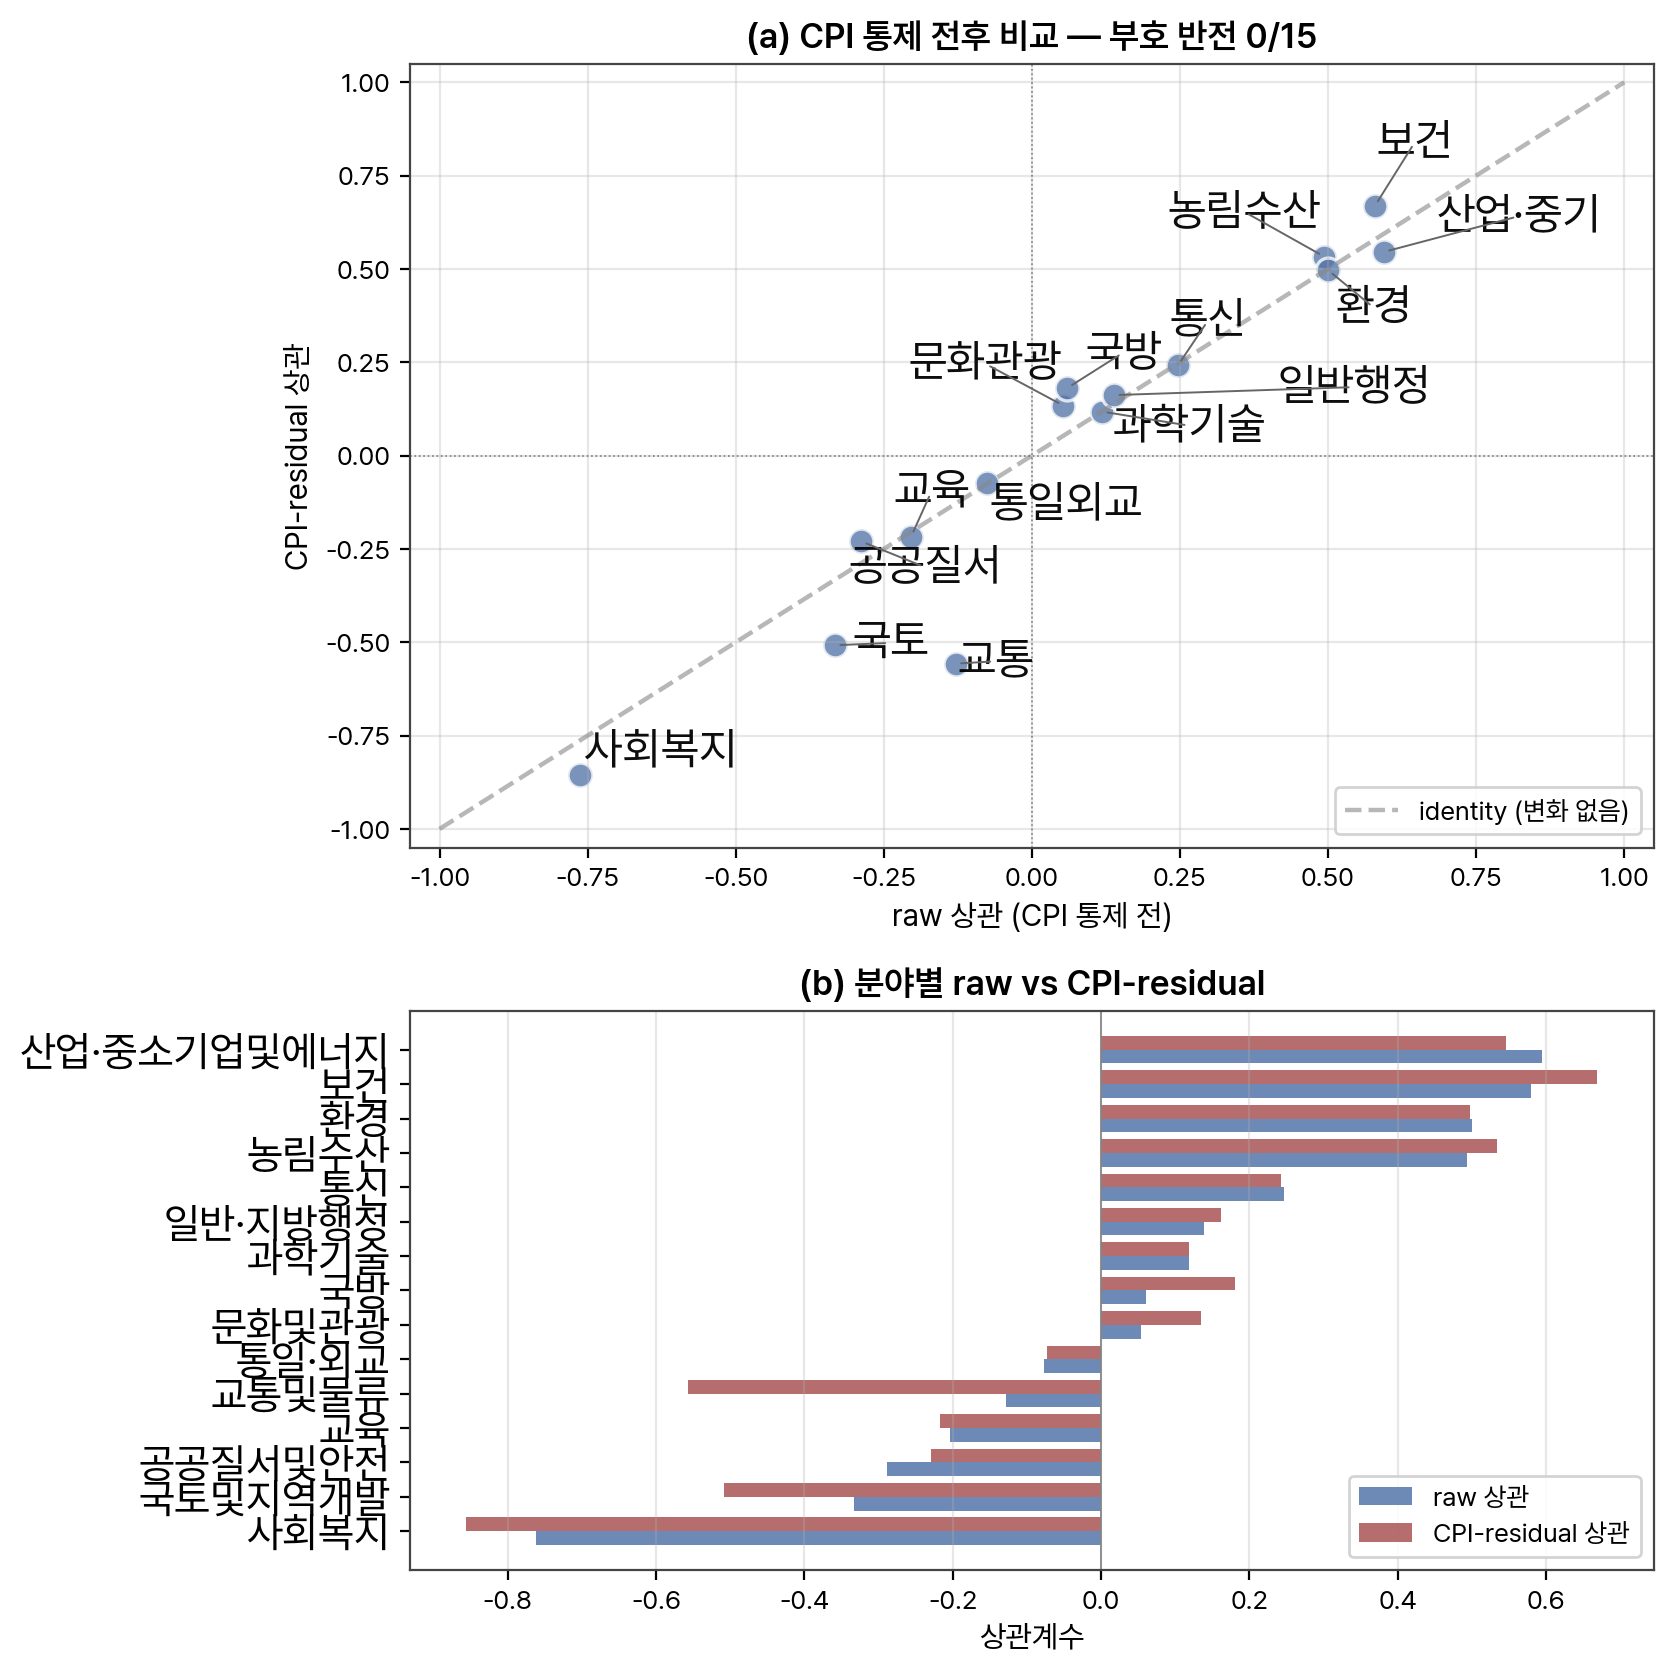
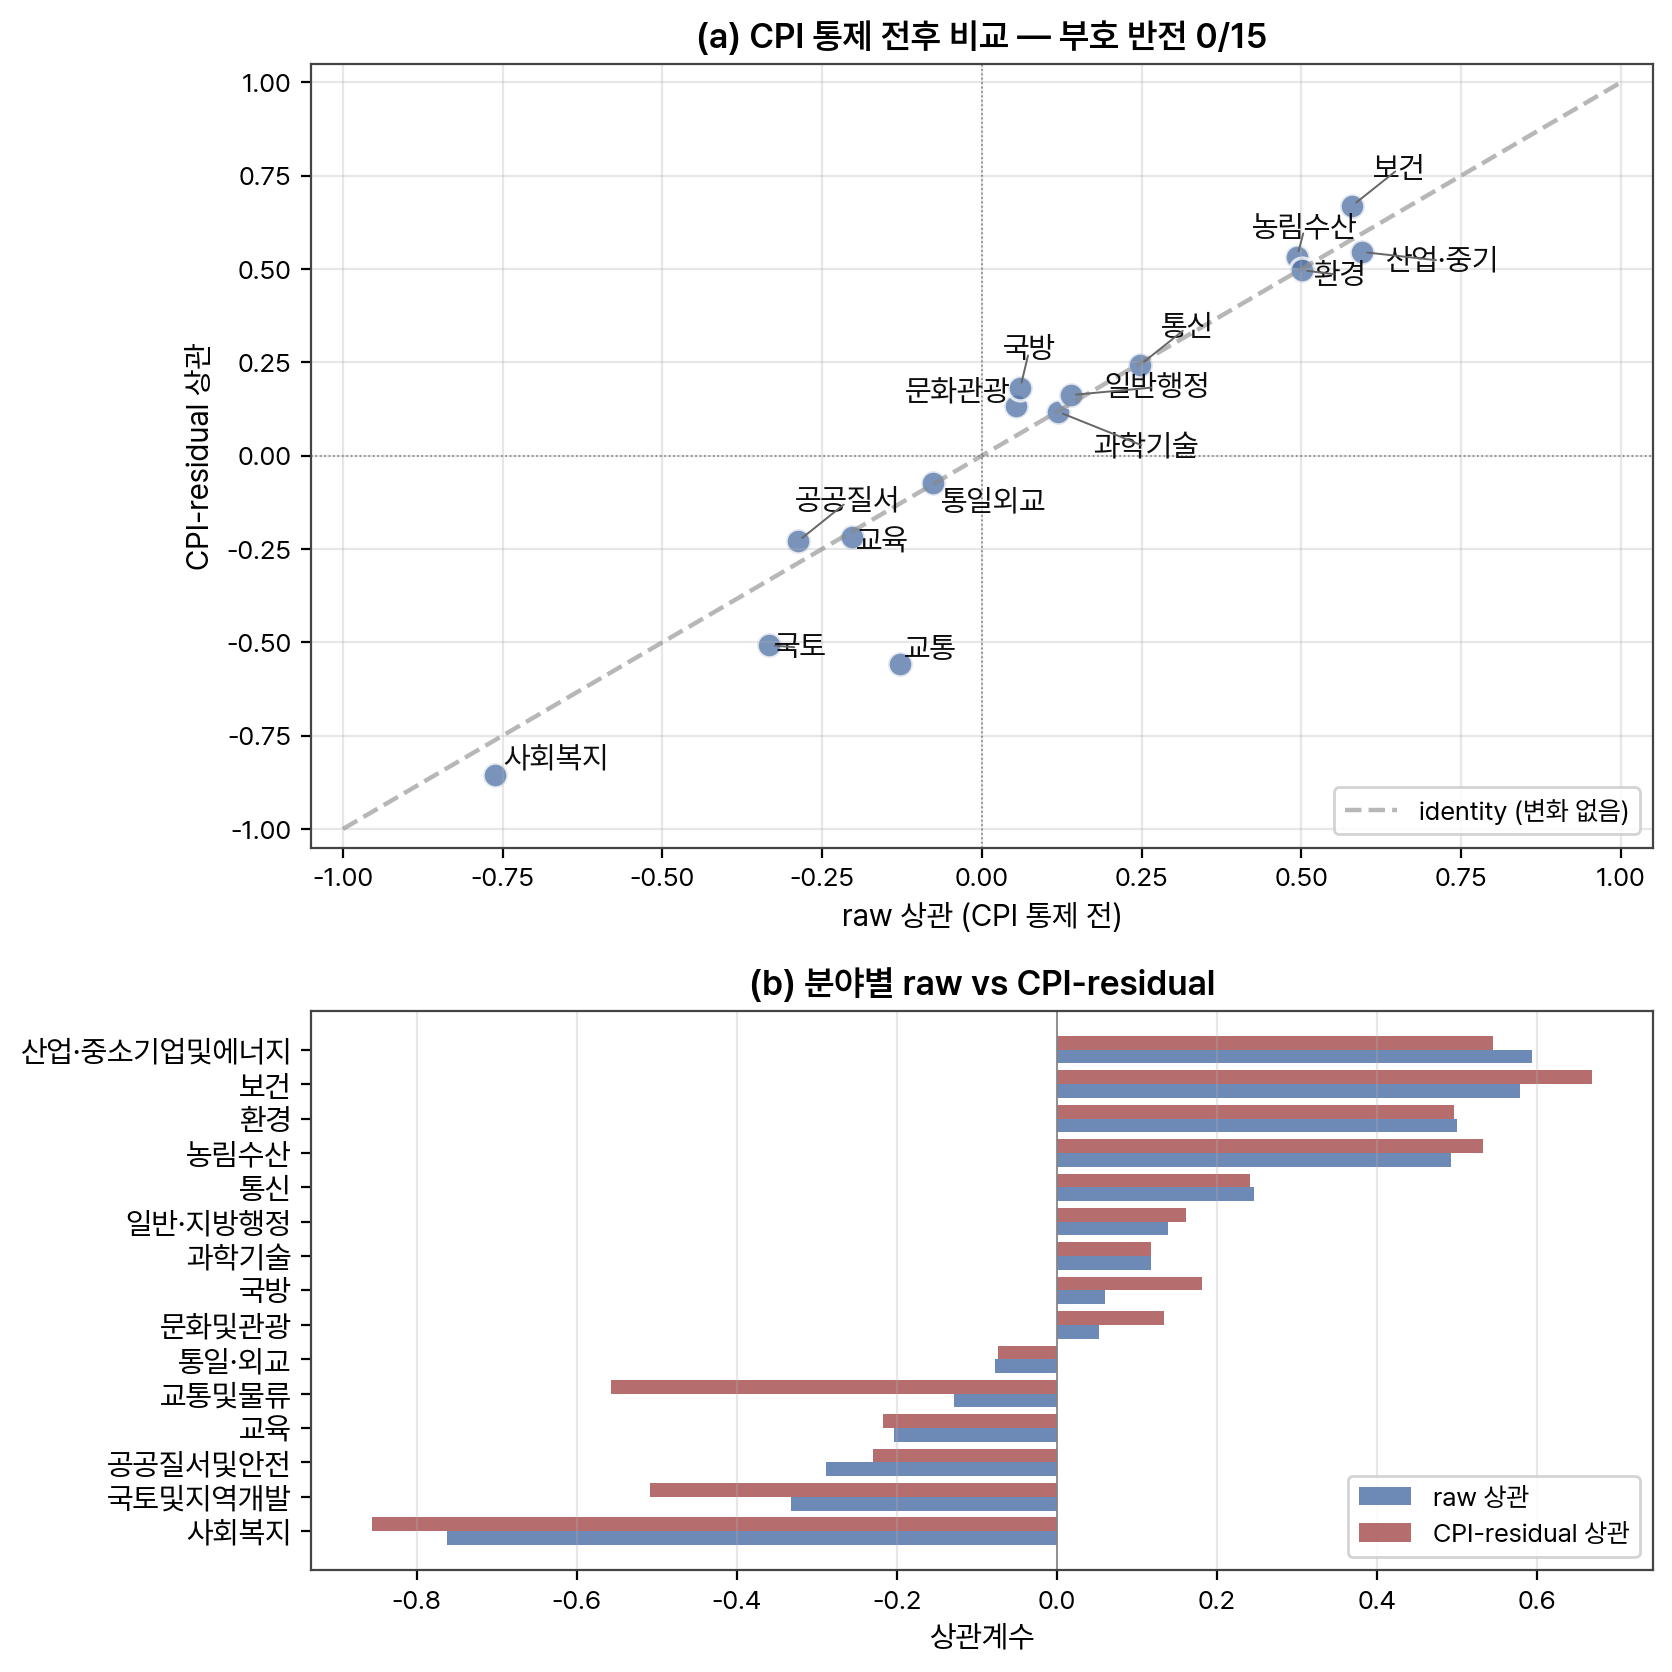
차트 텍스트 직관화 3차 — 라벨 겹침 해소 + 약어 한글화 + 제목
- h10_cpi_control: 산포도 분야 라벨 16→11pt, (b)패널 분야명 15→11pt → 겹침 해소
- h24_stl: 범례 FFT amp_12m_norm→"FFT 12개월 진폭", STL seasonal_strength→"STL 계절성 강도"
- h22_rdd_appendix: 제목 추가, "L-M 5x"→"Liebman-Mahoney ×5"

diff --git a/scripts/figures/redo_fig05_cpi.py b/scripts/figures/redo_fig05_cpi.py
@@ -55,7 +55,7 @@ texts = []
 for _, row in df.iterrows():
     t = ax1.text(row['corr_raw'], row['corr_resid_CPI'],
                  str(row['fld_short']),
-                 fontsize=16, alpha=0.95, weight='medium')
+                 fontsize=11, alpha=0.95, weight='medium')
     texts.append(t)
 try:
     from adjustText import adjust_text
@@ -90,7 +90,7 @@ ax2.barh(y - 0.2, df_sorted['corr_raw'], height=0.4,
 ax2.barh(y + 0.2, df_sorted['corr_resid_CPI'], height=0.4,
          label='CPI-residual 상관', color='#a85454', alpha=0.85)
 ax2.set_yticks(y)
-ax2.set_yticklabels(df_sorted['fld'], fontsize=15)
+ax2.set_yticklabels(df_sorted['fld'], fontsize=11)
 ax2.axvline(0, color='gray', lw=0.6)
 ax2.set_xlabel('상관계수')
 ax2.legend(loc='lower right')

diff --git a/scripts/figures/redo_fig16_appendix.py b/scripts/figures/redo_fig16_appendix.py
@@ -72,11 +72,12 @@ ax.legend(handles=[sig_patch, ns_patch,
                    plt.Line2D([0], [0], color='darkorange', lw=1.6, ls='--',
                               label=f'전체 β={beta_total:.2f}'),
                    plt.Line2D([0], [0], color='purple', lw=1.4, ls=':',
-                              label=f'L-M 5x')],
+                              label=f'Liebman-Mahoney ×5')],
           loc='lower right', fontsize=9, ncol=1)
 
 ax.grid(alpha=0.3, axis='x')
 ax.set_xlim(min(df['beta'].min() - 0.1, -0.05), xmax + xpad * 6)
+ax.set_title('사업원형별 12월 점프(RDD β) — 자산취득형(C1)이 가장 강함', fontsize=12)
 
 plt.tight_layout()
 

diff --git a/scripts/figures/redo_fig09_stl.py b/scripts/figures/redo_fig09_stl.py
@@ -71,9 +71,9 @@ for i, r in df.iterrows():
         ax.axhspan(i - 0.5, i + 0.5, color='#ffe0e0', alpha=0.55, zorder=0)
 
 ax.barh(y - 0.2, df['corr_fft'], height=0.4,
-        label='FFT amp_12m_norm', color='#5475a8', alpha=0.88, zorder=2)
+        label='FFT 12개월 진폭', color='#5475a8', alpha=0.88, zorder=2)
 ax.barh(y + 0.2, df['corr_stl'], height=0.4,
-        label='STL seasonal_strength', color='#a85454', alpha=0.88, zorder=2)
+        label='STL 계절성 강도', color='#a85454', alpha=0.88, zorder=2)
 
 # 부호 반전 분야 — 분야명을 빨강 굵게
 ax.set_yticks(y); ax.set_yticklabels(df['fld_short'])
